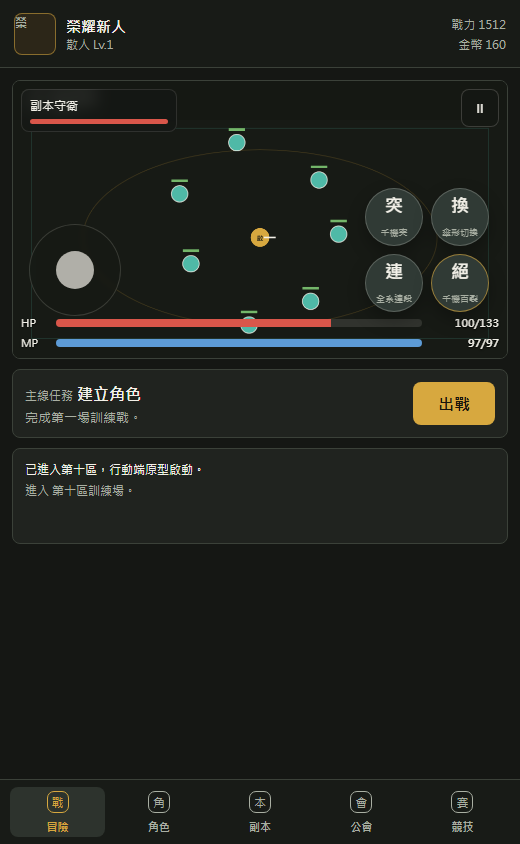
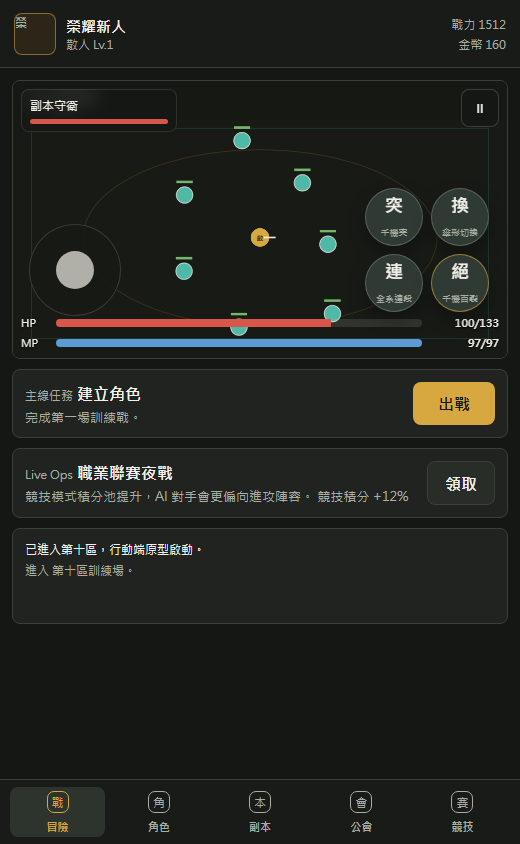
Convert site to dynamic Netlify Functions app

diff --git a/src/game.js b/src/game.js
@@ -158,6 +158,9 @@
     questText: document.querySelector("#questText"),
     combatLog: document.querySelector("#combatLog"),
     primaryAction: document.querySelector("#primaryAction"),
+    liveEventTitle: document.querySelector("#liveEventTitle"),
+    liveEventText: document.querySelector("#liveEventText"),
+    claimLiveReward: document.querySelector("#claimLiveReward"),
     skillWheel: document.querySelector("#skillWheel"),
     classGrid: document.querySelector("#classGrid"),
     heroTitle: document.querySelector("#heroTitle"),
@@ -194,6 +197,7 @@
     gear: { weapon: null, armor: null, trinket: null },
     inventory: [],
     questStep: 0,
+    claimedLiveRewardKey: null,
     guildTech: 1,
     rating: 1000,
     seasonClaimed: false,
@@ -225,6 +229,8 @@
     buffs: [],
     combo: 0,
     bossAdapted: false,
+    serverState: null,
+    serverStateError: null,
     lastUiRender: 0
   };
 
@@ -250,6 +256,8 @@
     createSkillButtons();
     bindEvents();
     startDungeon("training", false);
+    refreshServerState();
+    window.setInterval(refreshServerState, 30000);
     renderAll();
     log("已進入第十區，行動端原型啟動。");
     requestAnimationFrame(loop);
@@ -267,6 +275,8 @@
         startDungeon(world.mode.id, true);
       }
     });
+
+    dom.claimLiveReward.addEventListener("click", claimLiveReward);
 
     dom.saveButton.addEventListener("click", () => {
       persist();
@@ -898,6 +908,7 @@
     renderHeader();
     renderCombatUi();
     renderQuest();
+    renderLiveOps();
     renderHero();
     renderDungeons();
     renderInventory();
@@ -945,6 +956,21 @@
     dom.questTitle.textContent = quest[0];
     dom.questText.textContent = quest[1];
     dom.primaryAction.textContent = world.waveComplete ? "結算" : "出戰";
+  }
+
+  function renderLiveOps() {
+    const event = world.serverState?.event;
+    if (!event) {
+      dom.liveEventTitle.textContent = world.serverStateError ? "連線失敗" : "連線中";
+      dom.liveEventText.textContent = world.serverStateError || "正在讀取伺服器活動。";
+      dom.claimLiveReward.disabled = true;
+      return;
+    }
+    const claimed = save.claimedLiveRewardKey === event.windowId;
+    dom.liveEventTitle.textContent = event.title;
+    dom.liveEventText.textContent = `${event.description} ${event.modifier}`;
+    dom.claimLiveReward.disabled = claimed;
+    dom.claimLiveReward.textContent = claimed ? "已領" : "領取";
   }
 
   function renderHero() {
@@ -1073,18 +1099,41 @@
 
   function renderArena() {
     dom.ratingValue.textContent = `積分 ${save.rating}`;
-    dom.seasonText.textContent = `${save.stats.wins} 勝 ${save.stats.losses} 敗 · ${rankName(save.rating)}`;
+    dom.seasonText.textContent = `${world.serverState?.season || "新秀季"} · ${save.stats.wins} 勝 ${save.stats.losses} 敗 · ${rankName(save.rating)}`;
     dom.seasonReward.textContent = save.seasonClaimed ? "已領" : "領取";
+    const serverRivals = world.serverState?.leaderboard?.map((item) => [item.name, item.rating]) || [];
     const rivals = [
-      ["藍橋訓練隊", 1288],
-      ["微光戰隊", 1216],
-      [save.name, save.rating],
-      ["輪轉槍線", 1052],
-      ["草堂新秀", 996]
-    ].sort((a, b) => b[1] - a[1]);
+      ...serverRivals,
+      [save.name, save.rating]
+    ].sort((a, b) => b[1] - a[1]).slice(0, 6);
     dom.leaderboard.innerHTML = rivals
       .map((item, index) => `<li><strong>${index + 1}. ${item[0]}</strong><span>${item[1]}</span></li>`)
       .join("");
+  }
+
+  async function refreshServerState() {
+    try {
+      const response = await fetch("/api/game-state", { cache: "no-store" });
+      if (!response.ok) throw new Error(`HTTP ${response.status}`);
+      world.serverState = await response.json();
+      world.serverStateError = null;
+      renderLiveOps();
+      renderArena();
+    } catch (error) {
+      world.serverStateError = "暫時無法讀取 Live Ops。";
+      renderLiveOps();
+    }
+  }
+
+  function claimLiveReward() {
+    const event = world.serverState?.event;
+    if (!event || save.claimedLiveRewardKey === event.windowId) return;
+    save.gold += event.reward.gold;
+    save.energy = clamp(save.energy + event.reward.energy, 0, getMaxEnergy());
+    save.claimedLiveRewardKey = event.windowId;
+    persist();
+    log(`領取 ${event.title}：金幣 +${event.reward.gold}，體力 +${event.reward.energy}。`);
+    renderAll();
   }
 
   function draw() {

diff --git a/server.js b/server.js
@@ -14,8 +14,13 @@ const mime = {
   ".svg": "image/svg+xml; charset=utf-8"
 };
 
-const server = http.createServer((request, response) => {
+const server = http.createServer(async (request, response) => {
   const url = new URL(request.url, `http://${request.headers.host}`);
+  if (url.pathname === "/api/game-state" || url.pathname === "/.netlify/functions/game-state") {
+    await handleFunctionRequest(request, response);
+    return;
+  }
+
   const requested = decodeURIComponent(url.pathname === "/" ? "/index.html" : url.pathname);
   const filePath = path.normalize(path.join(root, requested));
 
@@ -38,6 +43,27 @@ const server = http.createServer((request, response) => {
     response.end(data);
   });
 });
+
+async function handleFunctionRequest(request, response) {
+  try {
+    const functionPath = path.join(root, "netlify", "functions", "game-state.mjs");
+    const functionModule = await import(`${pathToFileUrl(functionPath)}?t=${Date.now()}`);
+    const functionResponse = await functionModule.default(new Request(`http://localhost${request.url}`), {});
+    const body = await functionResponse.text();
+    response.writeHead(functionResponse.status, {
+      "Content-Type": functionResponse.headers.get("content-type") || "application/json; charset=utf-8",
+      "Cache-Control": "no-store"
+    });
+    response.end(body);
+  } catch (error) {
+    response.writeHead(500, { "Content-Type": "application/json; charset=utf-8" });
+    response.end(JSON.stringify({ error: "Function failed", detail: error.message }));
+  }
+}
+
+function pathToFileUrl(filePath) {
+  return `file:///${filePath.replace(/\\/g, "/").replace(/^([A-Za-z]):/, "$1:")}`;
+}
 
 let currentPort = startPort;
 

diff --git a/styles.css b/styles.css
@@ -356,6 +356,7 @@ button {
 }
 
 .mission-strip,
+.live-panel,
 .hero-summary,
 .class-panel,
 .skill-panel,
@@ -372,6 +373,7 @@ button {
 }
 
 .mission-strip,
+.live-panel,
 .hero-summary,
 .arena-board,
 .panel-heading,
@@ -384,6 +386,8 @@ button {
 
 .mission-strip strong,
 .mission-strip p,
+.live-panel strong,
+.live-panel p,
 .hero-summary h1,
 .hero-summary p,
 .guild-banner h1,
@@ -394,6 +398,7 @@ button {
 }
 
 .mission-strip p,
+.live-panel p,
 .hero-summary p {
   margin-top: 4px;
   color: var(--muted);
@@ -421,6 +426,12 @@ button {
   padding: 10px;
   background: var(--surface-2);
   border: 1px solid var(--line);
+}
+
+.secondary-button.compact {
+  flex: 0 0 auto;
+  min-width: 68px;
+  padding-inline: 12px;
 }
 
 .small-button {

diff --git a/index.html b/index.html
@@ -65,6 +65,15 @@
             <button id="primaryAction" class="primary-button" type="button">出戰</button>
           </section>
 
+          <section class="live-panel">
+            <div>
+              <span class="eyebrow">Live Ops</span>
+              <strong id="liveEventTitle">連線中</strong>
+              <p id="liveEventText">正在讀取伺服器活動。</p>
+            </div>
+            <button id="claimLiveReward" class="secondary-button compact" type="button">領取</button>
+          </section>
+
           <section class="log-panel" aria-label="戰鬥紀錄">
             <div id="combatLog"></div>
           </section>

diff --git a/sw.js b/sw.js
@@ -1,4 +1,4 @@
-const CACHE_NAME = "glory-mobile-prototype-v1";
+const CACHE_NAME = "glory-mobile-prototype-v2";
 const ASSETS = [
   "./",
   "./index.html",

diff --git a/README.md b/README.md
@@ -1,6 +1,6 @@
 # 榮耀行動原型
 
-Status: MVP Prototype / Mobile Web Game / First-person battle prototype added
+Status: Dynamic MVP Prototype / Mobile Web Game / Netlify Functions live ops
 
 [Live Demo](https://the-kings-avatar-glory-mobile-game.netlify.app)
 
@@ -34,6 +34,15 @@ http://127.0.0.1:5173
 
 也可以直接開啟 `index.html`，但 PWA 快取需要透過本機伺服器才會啟用。
 
+## Dynamic Web Features
+
+本專案已從純靜態頁升級為 Netlify Functions 動態網站：
+
+- `/api/game-state`: 即時回傳伺服器時間、輪值活動、賽季名稱與排行榜
+- 首頁 Live Ops 區塊會從 API 讀取活動資料
+- 競技排行榜會使用 API 回傳的即時資料
+- 玩家可領取當前活動獎勵，領取狀態存在 localStorage
+
 ## Prototype Pages
 
 - `index.html`: 手機直式 2D Canvas 戰鬥 MVP
@@ -51,6 +60,7 @@ http://127.0.0.1:5173
 - 1v1、3v3、5v5 本地競技模擬
 - localStorage 自動存檔
 - 第一人稱戰鬥原型：準星、Boss 血條、第一人稱武器、技能鍵、畫面震動
+- Netlify Functions 動態 API：Live Ops、輪值活動與排行榜
 
 ## First Person Battle Direction
 
@@ -82,6 +92,8 @@ docs/
   design/
   screenshots/
 src/
+netlify/
+  functions/
 index.html
 first-person.html
 styles.css
